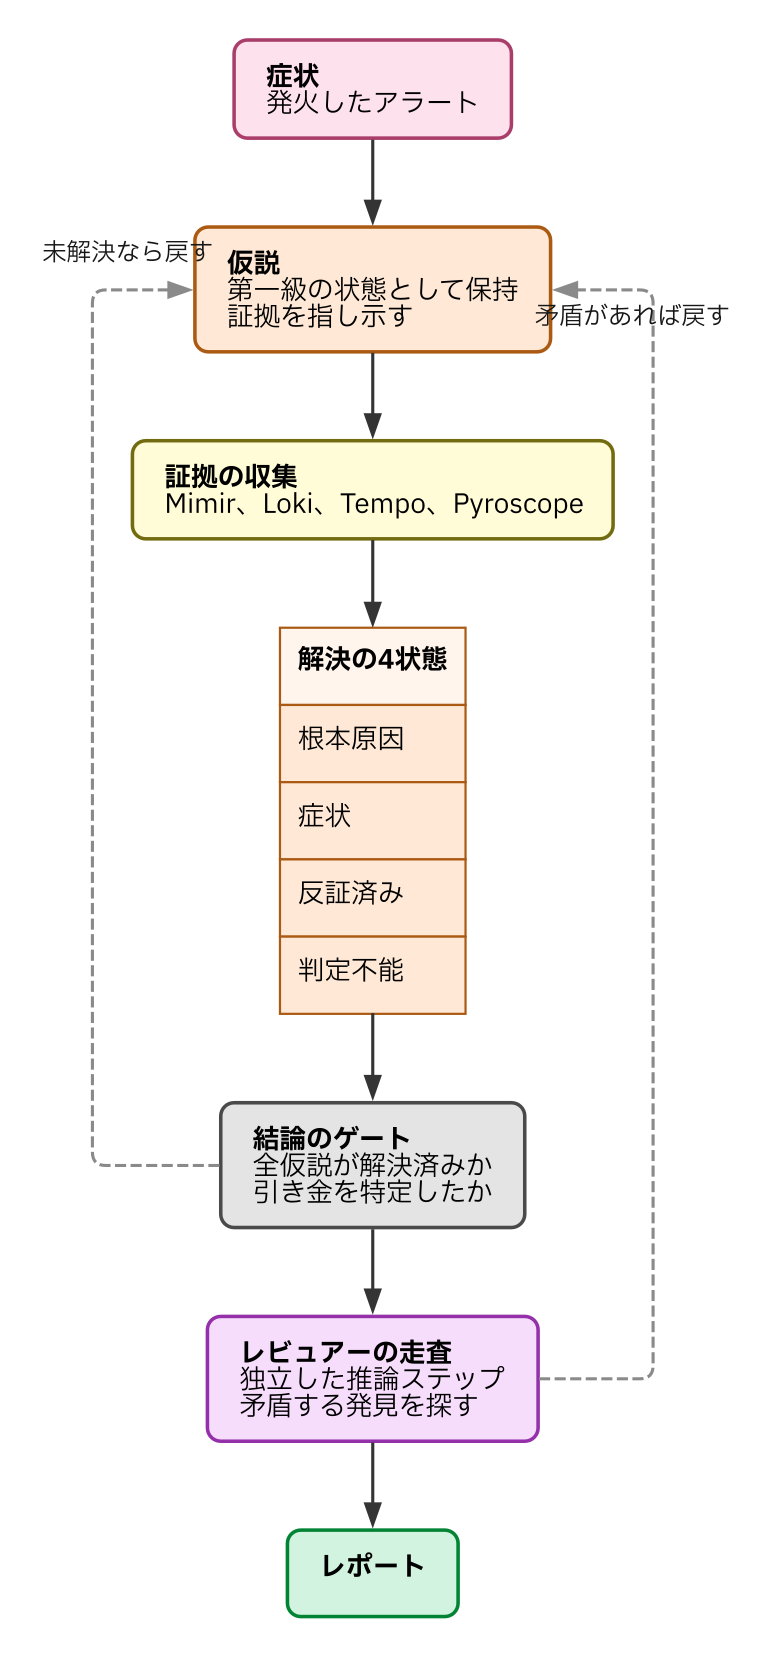
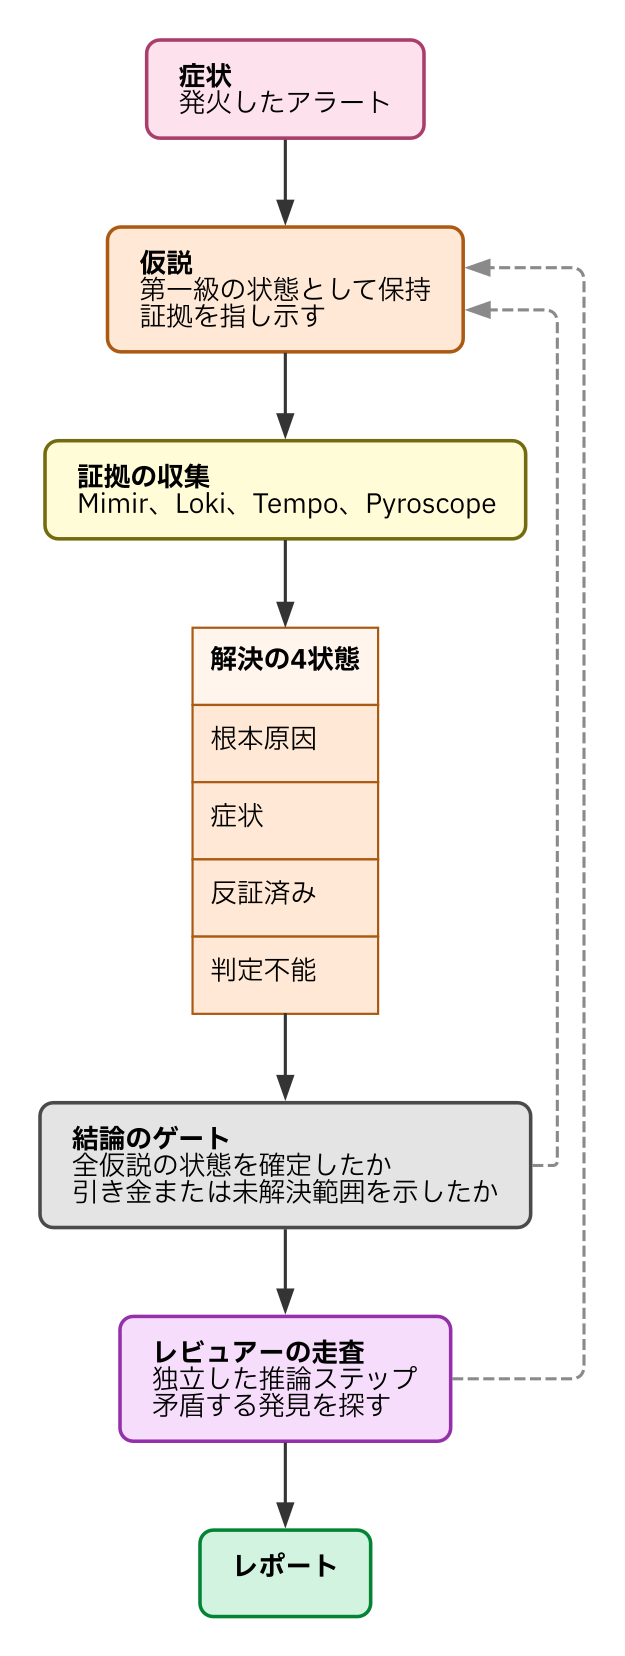
fix(articles): 第三者査読で挙がった致命的な指摘を反映し図3を作り直す
致命的3件: タイトルが原文の「寄与が小さい」を「寄与しない」に変えていた(R-01)、
図3の処理順序が原文と逆で権限検査が最後だった(R-02)、
percentage point を「パーセント」と訳していた(R-03)。

要修正9件: 99.1%減の算定条件と失敗条件を追記(R-04)、
公開ベンチマークを社内観察の独立検証としていた記述を撤回(R-05)、
節7の接続を筆者の整理と明示(R-06)、前後編の評価基盤の同一視を解消(R-07)、
断定過剰を原文の様相に戻す(R-08)、締めの二択を結果優先の方針に合わせる(R-09)、
Reflexion の引用範囲を限定(R-10)、ゲートに未解決範囲の明示を追加(R-11)、
PNG目視で判明した文字と線の干渉を3枚修正(R-12)。

軽微: 引用10件のアポストロフィを原文のU+2019へ戻し22件すべて逐語一致(R-13)。

Changed region(s): [[0.0608, 0.0, 0.9424, 0.9855], [0.6384, 0.0, 0.6992, 0.0924], [0.5776, 0.9239, 0.608, 0.9855]]

diff --git a/articles/20260929-agent-eval-loop.md b/articles/20260929-agent-eval-loop.md
@@ -12,19 +12,19 @@ AIエージェントに可観測性の仕事をさせたとき、その答えが
 
 Grafana Cloud には [Grafana Assistant](https://grafana.com/docs/grafana-cloud/machine-learning/assistant/) というエージェントが組み込まれています。メトリクスを問い合わせ、ログとトレースを探索し、ダッシュボードを作り、自然言語で Grafana を操作します。それを開発しているチームは、評価の仕組みを作った経緯と、そこで見つけたことを公式のエンジニアリングブログで公開しています。この記事では [Building an evaluation loop for Grafana Assistant](https://medium.com/grafana-labs/building-an-evaluation-loop-for-grafana-assistant-9a8690d8662d)（Yasir Ekinci、2026年4月30日）の内容を追いながら、エージェントの評価をどう組み立てるかを見ていきます。
 
-続編として、この方法で実際に測った結果として何が効いたのかを別の記事で扱います。
+続編では、同じ Grafana Labs が公開したインシデント調査の評価事例を取り上げ、測定からどのような改善が見つかったかを追います。
 
 ## もっともらしく見える失敗
 
 記事の冒頭に、評価が難しい理由が書かれています。
 
-> the hardest failures usually aren't the obvious ones; they're the ones that look plausible on the surface.
+> the hardest failures usually aren’t the obvious ones; they’re the ones that look plausible on the surface.
 >
 > （最も難しい失敗はたいてい明白なものではなく、表面上もっともらしく見えるものである）
 
-具体例も2つ挙げられています。答えは良く書けているのに、間違ったクエリに基づいている。パネルは正常に描画されるのに、ユーザーが何かを理解する助けにはなっていない。どちらも出力を見るだけでは気付けません。
+具体例も2つ挙げられています。答えは良く書けているのに、間違ったクエリに基づいている。パネルは正常に描画されるのに、ユーザーが何かを理解する助けにはなっていない。どちらも、最終的な応答を読むだけでは見落とすことがあります。
 
-エージェントがタスクに従っているように見えながら、途中のどこかで悪い判断を下していることもあります。しかもシステムは非決定的なので、同じ要求が一度は成功し、次は失敗します。可観測性のタスクは答えの形が定まっておらず、複数の手順を踏むことが多いため、この種の静かな失敗はとくに見落としやすくなります。
+エージェントがタスクに従っているように見えながら、途中のどこかで悪い判断を下していることもあります。しかもシステムは非決定的なので、同じ要求が一度は成功しても、次には失敗することがあります。可観測性のタスクは答えの形が定まっておらず、複数の手順を踏むことが多いため、この種の静かな失敗はとくに見落としやすくなります。
 
 そこで評価の対象が変わります。
 
@@ -40,7 +40,7 @@ Grafana Cloud には [Grafana Assistant](https://grafana.com/docs/grafana-cloud/
 
 **シナリオ**は現実のユーザーのワークフローと、成功が何を意味するかを記述します。**グレーダー**は、その成功が実際に起きたかを判定します。判定の根拠に使うのは、ツールの引数、クエリの構造、保存された Grafana の状態、ナビゲーションの目的地、環境から取れる接地した事実です。シナリオが望ましい振る舞いを定義し、グレーダーがそれを達成できたかを教えます。
 
-この分離が効く理由は、原文の一文に凝縮されています。
+この分離が意味を持つ理由は、原文の一文に凝縮されています。
 
 > The desired behavior is encoded separately from how the implementation achieves it, whether that implementation is the agent itself, its prompt, its routing logic, or the code around it.
 >
@@ -83,7 +83,7 @@ Grafana Cloud には [Grafana Assistant](https://grafana.com/docs/grafana-cloud/
 
 シナリオは複数回実行します。
 
-> One run is not enough. If a capability only passes occasionally, that is not reliable — it's luck.
+> One run is not enough. If a capability only passes occasionally, that is not reliable — it’s luck.
 >
 > （1回の実行では足りない。ある能力がときどきしか通らないなら、それは信頼できるのではなく、運である）
 
@@ -93,9 +93,9 @@ Grafana Cloud には [Grafana Assistant](https://grafana.com/docs/grafana-cloud/
 
 ## 175シナリオの実測結果
 
-以上の仕組みが何を拾うのかを、記事は実例で示しています。あるプロンプトの改修は、スポットチェックでは明確な改善に見えました。プロンプトのサイズが減り、構造が良くなり、トークンの消費量も下がっています。
+以上の仕組みが何を拾うのかを、記事は実例で示しています。Ekinci の記事では、社内の評価基盤で175のシナリオを各3回ずつ実行した結果が報告されています。対象となったプロンプトの改修は、スポットチェックでは明確な改善に見えました。プロンプトのサイズが減り、構造が良くなり、トークンの消費量も下がっています。
 
-175のシナリオを各3回ずつ走らせると、結果はこうなりました。
+結果はこうなりました。
 
 | 能力の区分 | 改修前 | 改修後 |
 |---|---|---|
@@ -165,7 +165,7 @@ Grafana Cloud には [Grafana Assistant](https://grafana.com/docs/grafana-cloud/
 
 ペースの問題も消えないと認められています。プロダクトの開発は評価の網羅より速く進みます。新しいツールとワークフローは、それをシナリオに落とし込めるより速く到着することが多い。評価が出荷を止めることは望まないが、システムが最も速く変化しているところに盲点があるのも望まない。だから影響の大きいワークフローから優先し、どの隙間がユーザーに最も痛みを与えているかは本番の信号に教えてもらう、という運び方になっています。
 
-この緊張が実際にどう現れたかは、続編で扱います。合成したデータで作った評価環境が通り続けながら、実インシデントでは重要な部分で苦戦していた、という話です。
+この緊張が実際にどう現れたかは、続編で扱います。インシデント調査の評価事例では、合成したデータで作った環境が通り続けながら、実インシデントでは重要な部分で苦戦していたと報告されています。評価の考え方は共通しますが、同じ評価基盤やデータセットだと公開資料から確認できるわけではありません。
 
 ## 自分でループを始める
 
